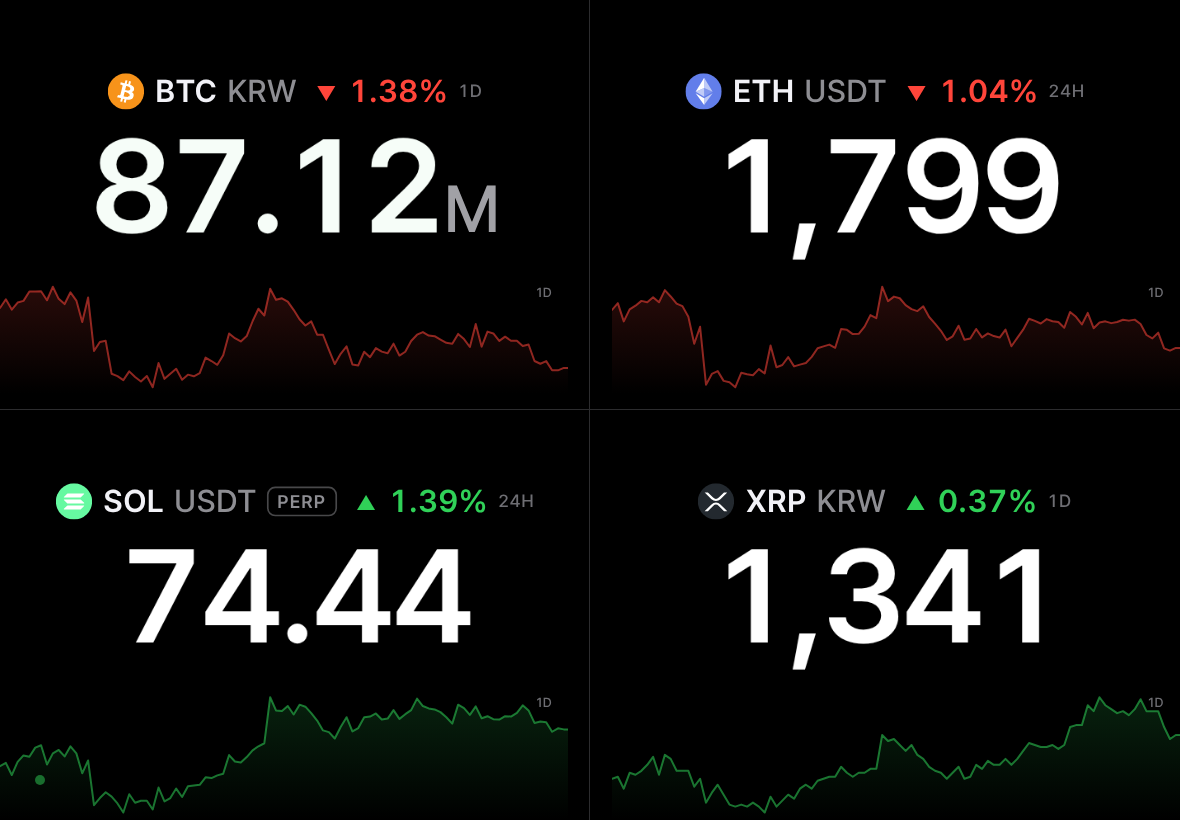
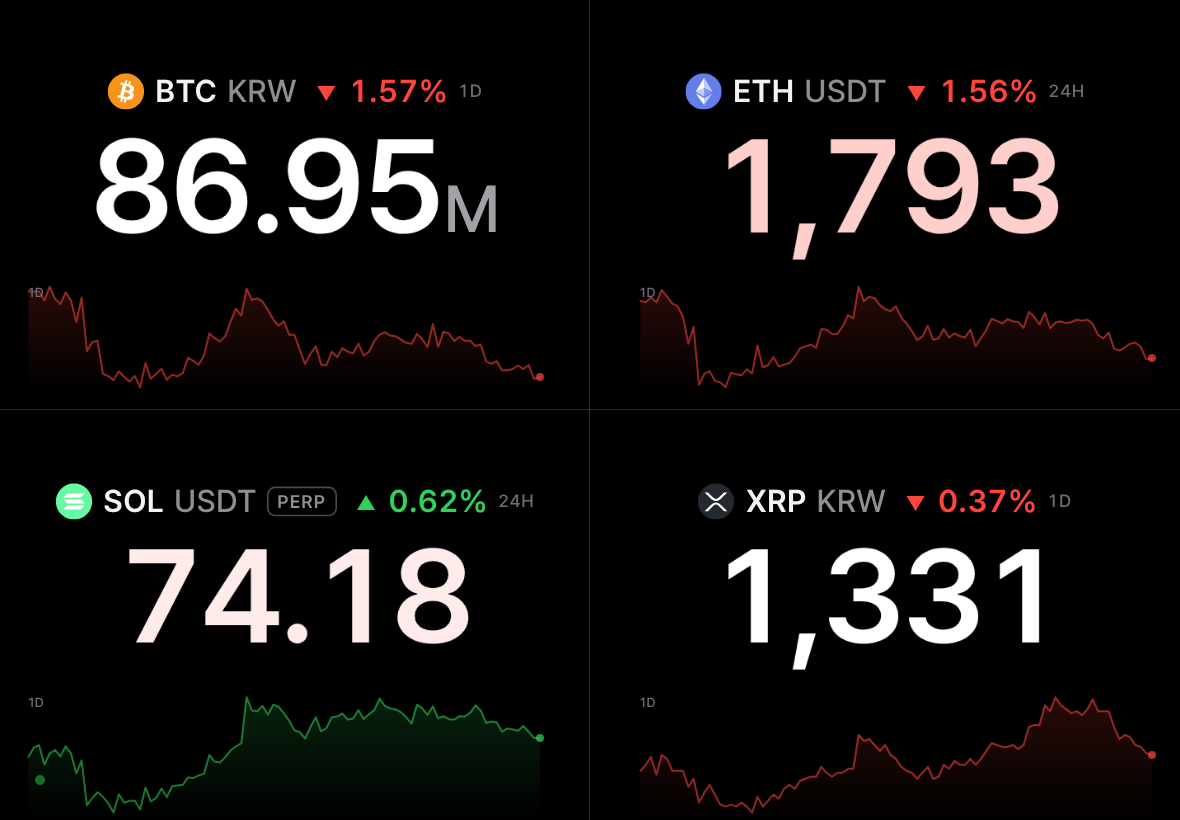
The chart ends at the live price, 5% in from each side (0.25.1) (#49)
Line and fill used to run on, level, from the live price to the right edge,
drawing prices that do not exist. They now end at the live price's point.
The chart is drawn 5% in from each side: on the right so the point and its
ring are not cut by the screen or the cell, on the left to match, so the
chart sits centred under the price. The period label sits above the
chart's start. Screenshots retaken.

Claude-Session: https://claude.ai/code/session_014Sd3YL2WJ32HMbCc4VV95J

diff --git a/tests/e2e/run.js b/tests/e2e/run.js
@@ -1119,8 +1119,8 @@ async function popOut(browser, base) {
 
 // Run in the page: whether each chart (the single board's, or each cell's) is
 // held still, starts below its price line wherever burn-in protection floats
-// the board, and keeps clear of the lines between cells; and its line reaches
-// across the chart, with the lowest point inside it.
+// the board, and keeps clear of the lines between cells; and its line runs
+// from 5% in on the left to the live price's point, 5% in on the right, with the lowest point inside it.
 function chartsHold() {
   const drift = document.getElementById('drift'), matrix = new DOMMatrix(getComputedStyle(drift).transform);
   const room = { x: Number(drift.dataset.roomX), y: Number(drift.dataset.roomY) };
@@ -1133,7 +1133,9 @@ function chartsHold() {
     const chart = box.getBoundingClientRect(), line = box.querySelector('.spark-line').getBoundingClientRect();
     const still = getComputedStyle(box).transform === 'none' && getComputedStyle(box.parentElement).transform === 'none';
     const clearOfPrice = chart.top >= price.getBoundingClientRect().bottom - now.y + room.y - 1;
-    const across = line.left <= chart.left + 1 && line.right >= chart.right - 1 && line.bottom <= chart.bottom - 1;
+    // The line runs from 5% in on the left to the live price's point, 5% in from the right; nothing is drawn past it.
+    const point = box.querySelector('.spark-point').getBoundingClientRect(), pointX = point.left + point.width / 2;
+    const across = Math.abs(line.left - (chart.left + chart.width * 0.05)) <= 2 && Math.abs(line.right - (chart.left + chart.width * 0.95)) <= 2 && Math.abs(pointX - line.right) <= 2 && line.bottom <= chart.bottom - 1;
     let clearOfLines = true;
     if (cell) {
       // The cell as it would sit with the board unmoved; a line on its side may float room in.
@@ -1169,7 +1171,7 @@ async function chart(browser, base) {
   assert.ok((await page.locator('#board-chart .spark-line').getAttribute('d')).split('L').length >= 90, 'one point per candle, and the live price');
   // It lies across the bottom of the screen, edge to edge, held still while the board floats, below the price line wherever that floats.
   assert.ok(await page.evaluate(() => { const chart = document.getElementById('board-chart').getBoundingClientRect(); return chart.left <= 0 && chart.right >= innerWidth && chart.bottom >= innerHeight - 1; }), 'the chart lies across the lower screen');
-  assert.ok(await page.evaluate(chartsHold), 'the chart holds still, below the price however it floats, its line from edge to edge');
+  assert.ok(await page.evaluate(chartsHold), 'the chart holds still, below the price however it floats, its line 5% in from each side, ending at the live point');
   // The live price has a point; when the price shown moves, the point sends out a ring in the move's colour, as wide as the move is large.
   assert.equal(await page.locator('#board-chart .spark-point').count(), 1);
   assert.equal(await page.locator('#board-chart .spark-ring').count(), 0, 'no ring before the price moves');

diff --git a/src/components/Spark.svelte b/src/components/Spark.svelte
@@ -13,8 +13,10 @@
   // cell, or of the screen), and its line keeps one width however it is stretched.
   // The share of the height kept free below the line's lowest point; the fill fades on into it.
   const FLOOR = 0.06;
-  // The live price is drawn this far in from the right edge, so its point and
-  // the ring it sends out are not cut by the screen; the line runs on, level, to the edge.
+  // The chart is drawn this far in from each side: on the right so the live
+  // price's point and the ring it sends out are not cut by the screen, on the
+  // left to match. Line and fill end at the live price: past it there are no
+  // prices to draw.
   const END = 0.05;
   let { points = null, tick = null, period, label } = $props();
   const W = 100, H = 30, PAD = 1;
@@ -26,15 +28,15 @@
     let low = Infinity, high = -Infinity;
     for (const [, price] of all) { low = Math.min(low, price); high = Math.max(high, price); }
     const range = high - low || 1;
-    const x = (time) => (time - first) / span * (1 - END) * W;
+    const x = (time) => (END + (time - first) / span * (1 - 2 * END)) * W;
     const y = (price) => PAD + (1 - (price - low) / range) * (H * (1 - FLOOR) - PAD);
     const coords = all.map(([time, price]) => `${x(time).toFixed(2)},${y(price).toFixed(2)}`);
     // Coloured as the change beside the price is, so the two never disagree;
     // by the period's own move only while there is no live price yet.
     const move = tick && Number.isFinite(tick.change) ? direction(tick.change) : all.at(-1)[1] - all[0][1];
     const endY = y(all.at(-1)[1]);
-    const path = `M${coords.join('L')}L${W},${endY.toFixed(2)}`;
-    return { path, area: `${path}L${W},${H}L0,${H}Z`, tone: move > 0 ? 'up' : move < 0 ? 'down' : 'flat',
+    const path = `M${coords.join('L')}`, startX = (END * W).toFixed(2), endX = ((1 - END) * W).toFixed(2);
+    return { path, area: `${path}L${endX},${H}L${startX},${H}Z`, tone: move > 0 ? 'up' : move < 0 ? 'down' : 'flat',
       end: { x: (1 - END) * 100, y: endY / H * 100 } };
   });
 

diff --git a/src/app.css b/src/app.css
@@ -194,8 +194,8 @@ body {
 .spark-ring[data-strength="3"] { --ring: 6; animation-duration: 1.6s; }
 @keyframes spark-ring { from { transform: scale(1); opacity: 0.9; } to { transform: scale(var(--ring, 4)); opacity: 0; } }
 @media (prefers-reduced-motion: reduce) { .spark-ring { display: none; } }
-/* The period, small in the chart's top left corner, away from the live price's point. */
-.spark .spark-label { position: absolute; top: 0; left: 16px; font-size: 15px; }
+/* The period, small above the chart's start (Spark draws it 5% in), away from the live price's point. */
+.spark .spark-label { position: absolute; top: 0; left: 5%; font-size: 15px; }
 .chart-box .spark-label { font-size: 13px; }
 .change-label { font-size: 0.56em; font-weight: 500; letter-spacing: 0.04em; color: #6e6e73; }
 #container.price-unavailable #price-main { opacity: 0.55; }

diff --git a/docs/development.md b/docs/development.md
@@ -72,7 +72,7 @@ The modules in `src/lib` are plain JavaScript that knows nothing of Svelte or th
 - **Request spacing**: Upbit accepts a request from a browser once every 10 seconds, counting both price connections and coin lists. Both therefore share one pacer (`src/lib/pace.js`), set to 11 seconds: at exactly 10, network delay makes the gap look shorter at Upbit's end, the request is refused (429), and the refusal counts too, so the next try is refused as well. A connection that is working, or still being made, is not cut when the app comes back into view or the page first loads. Binance gets 2 seconds. A failed connection is retried after 1 second, doubling up to 30. A coin list asked for right after connecting can take up to 11 seconds.
 - **Display pace**: prices may arrive many times a second, at a different moment for each coin, but the board changes on one beat, at most every three seconds. On the beat every place with a newer price changes at once, each to the latest price it was sent (`src/lib/steady.js`). A place's first price (on opening, or just after an asset is added or changed) is shown at once.
 - **Tab title**: the tab shows the price and market too, as in `8996만 | BTCKRW | Coinboard`, at the same pace as the board. The connection is kept while another tab is in front, so the title stays live; it is closed only when the page is left.
-- **Digits**: only the digits that change move, as numbers do in Apple's apps: the old digit drifts 38% of its height away, blurring and fading, while the new one drifts in from the other side and sharpens (0.56 s); upwards when the price rose, downwards when it fell. Nothing clips them. The old digit is a copy laid over its slot (`.digit-old`, drawn by CSS from `data-digit`), so it never enters the price's text, and it is removed when its fade ends. The whole price is tinted with the up or down color for a moment and fades back. The depth of the tint follows the move since the last price shown: under 0.02% faint, under 0.1% normal, 0.1% or more full and held longer (`src/lib/move.js`). With a chart shown, the live price has a small point, and each time the price shown changes the point sends out a ring in the move's color, as wide and as long as the same three steps say (`src/components/Spark.svelte`). The live price is drawn 5% in from the chart's right end so point and ring are not cut by the screen or the cell; the line runs on, level, to the edge.
+- **Digits**: only the digits that change move, as numbers do in Apple's apps: the old digit drifts 38% of its height away, blurring and fading, while the new one drifts in from the other side and sharpens (0.56 s); upwards when the price rose, downwards when it fell. Nothing clips them. The old digit is a copy laid over its slot (`.digit-old`, drawn by CSS from `data-digit`), so it never enters the price's text, and it is removed when its fade ends. The whole price is tinted with the up or down color for a moment and fades back. The depth of the tint follows the move since the last price shown: under 0.02% faint, under 0.1% normal, 0.1% or more full and held longer (`src/lib/move.js`). With a chart shown, the live price has a small point, and each time the price shown changes the point sends out a ring in the move's color, as wide and as long as the same three steps say (`src/components/Spark.svelte`). The chart is drawn 5% in from each side (on the right so point and ring are not cut by the screen or the cell, on the left to match); line and fill end at the live price's point, past which there are no prices.
 - **One connection per market**: the assets of one market share one connection. Upbit takes several coins in one subscription; Binance uses a combined stream (`/stream?streams=…`) when there is more than one coin. Adding, removing or changing an asset keeps the connection open and changes what it carries: Upbit takes a new subscription, which replaces the old one and is answered at once with each coin's current ticker; Binance takes `SUBSCRIBE`/`UNSUBSCRIBE` messages. So a new coin appears within a second or two, and the assets that stay keep receiving. Only a market with no connection yet, or a connection that failed, connects anew (on Upbit at most once per 11 seconds).
 - **A ticker that does not exist**: two first-price timeouts in a row with no price ever received turn the dot yellow with `CHECK TICKER`; reconnecting goes on. When several assets share a connection and the others are receiving prices, a coin that receives nothing for 15 seconds is marked `CHECK TICKER` on its own and the connection is kept. A coin added to an open connection that receives nothing for 15 seconds is first asked for again on a new connection carrying everything; only after that can it be marked.
 - **Layout, one asset**: one small line above the price (icon, coin, currency, change), then the price, large; centred in either orientation, with the price line at the vertical center. The charts do not float with burn-in protection: what they draw keeps changing, so they need none, and held still they reach the screen's edges. One asset's (`#board-chart`) starts below the lowest the price line can float to and runs to the bottom edge. In the grid, a still layer with the board's own grid (`#chart-grid`) holds one per cell, starting below the price line and kept, on the sides where a floating line between cells can come, that far in. With a chart shown the cell's text rises by 9% of the cell to give it room.
